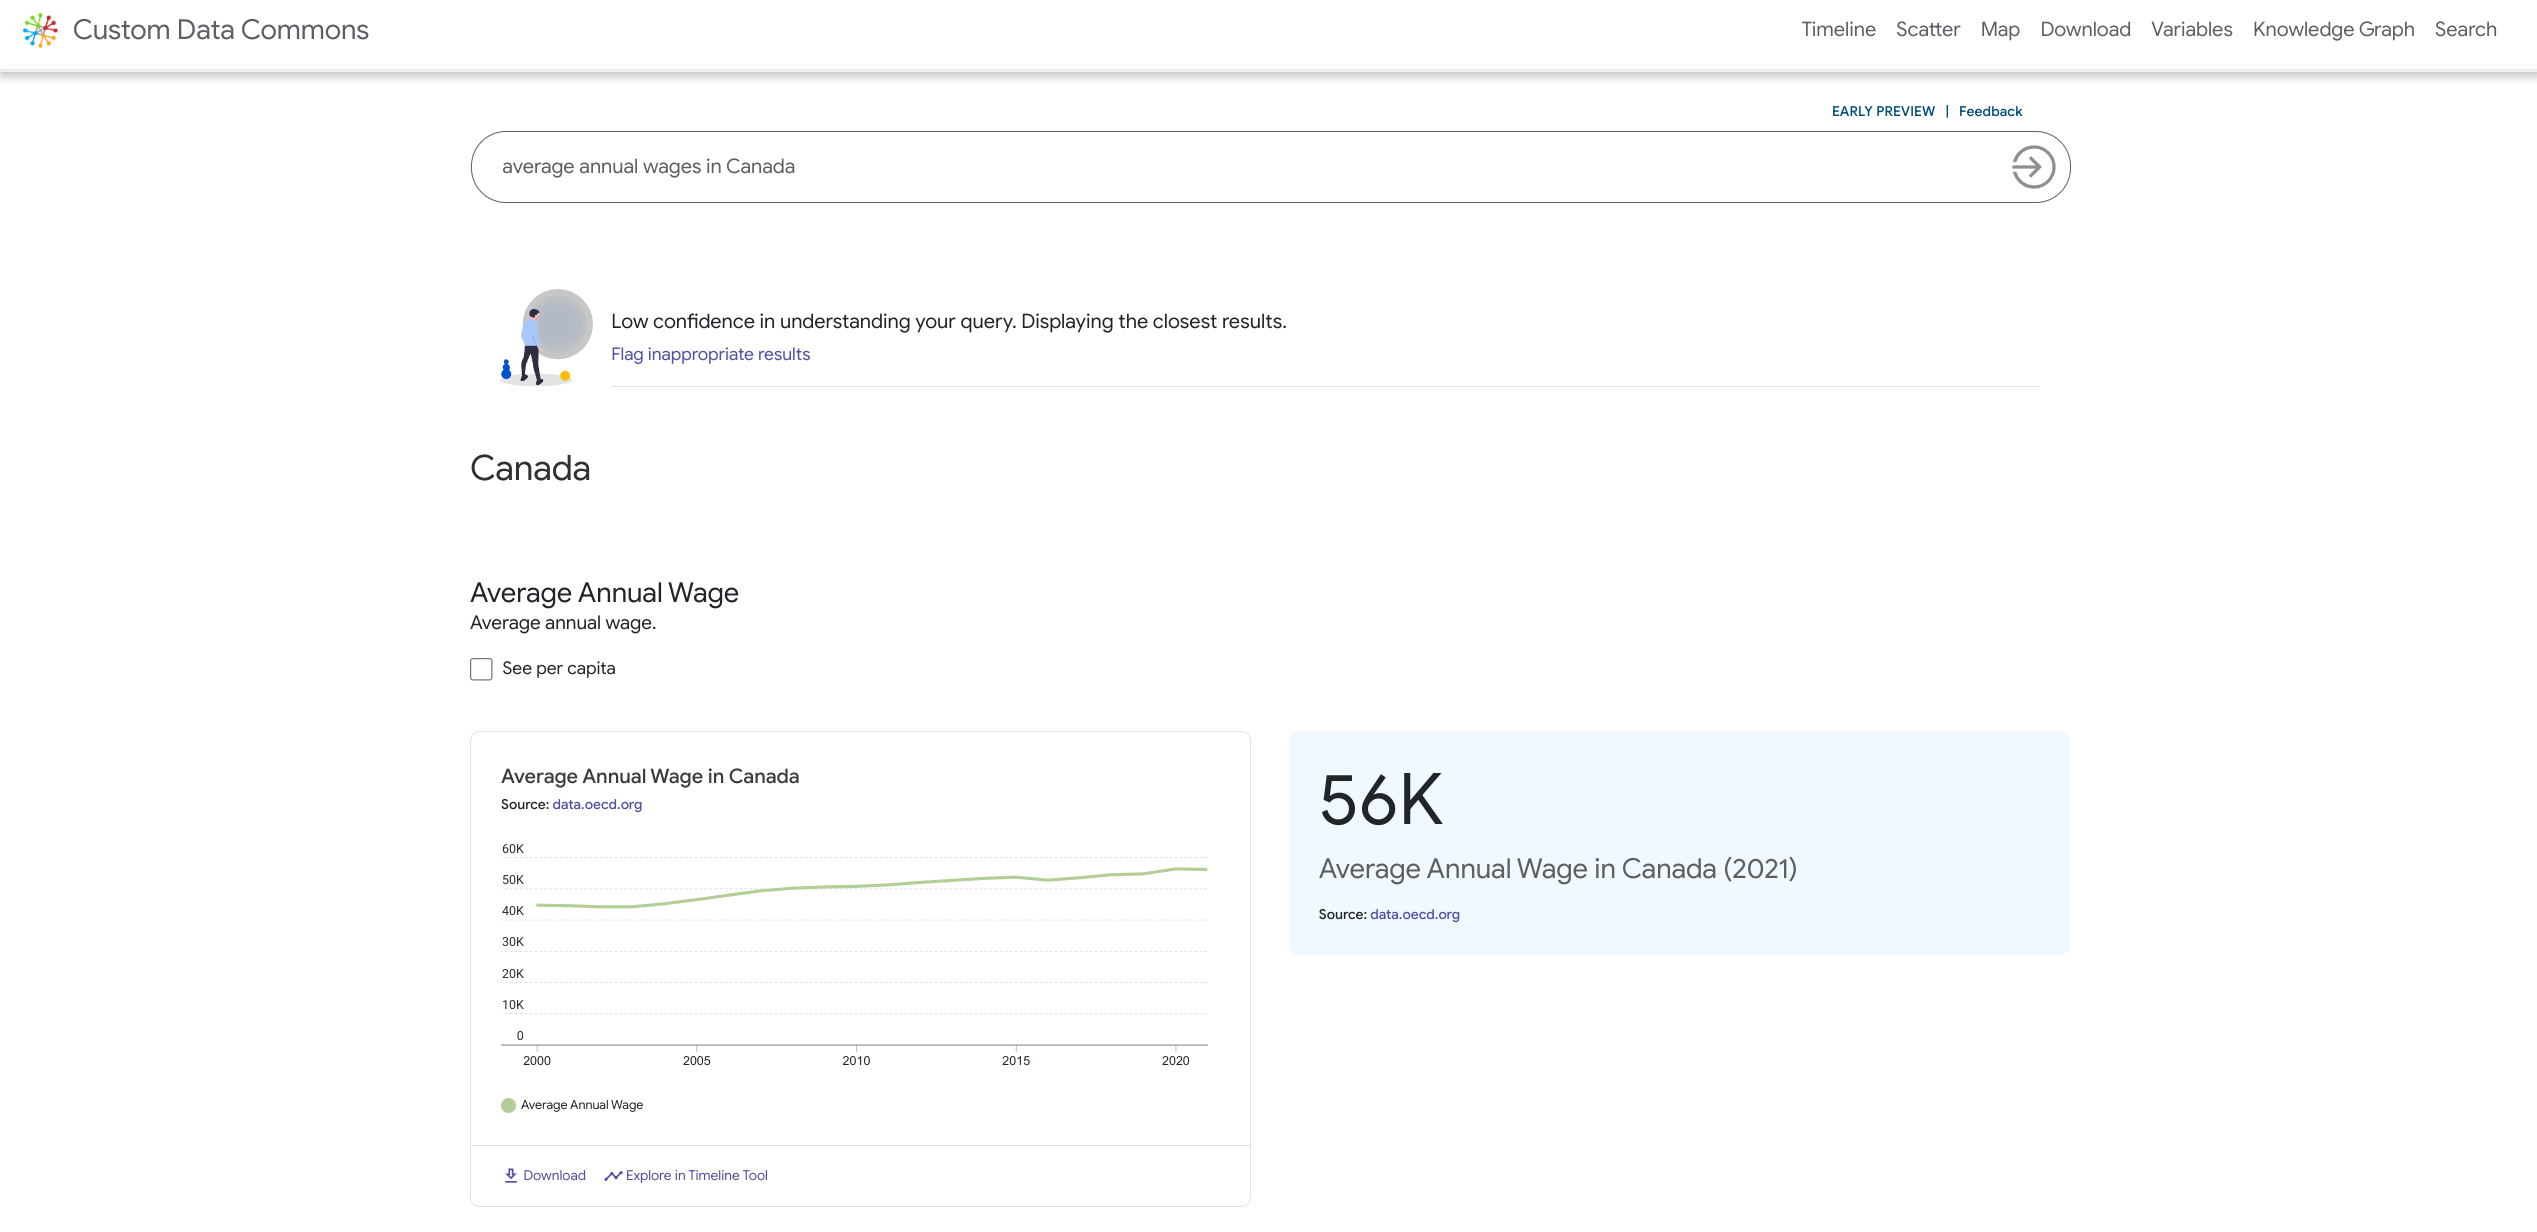
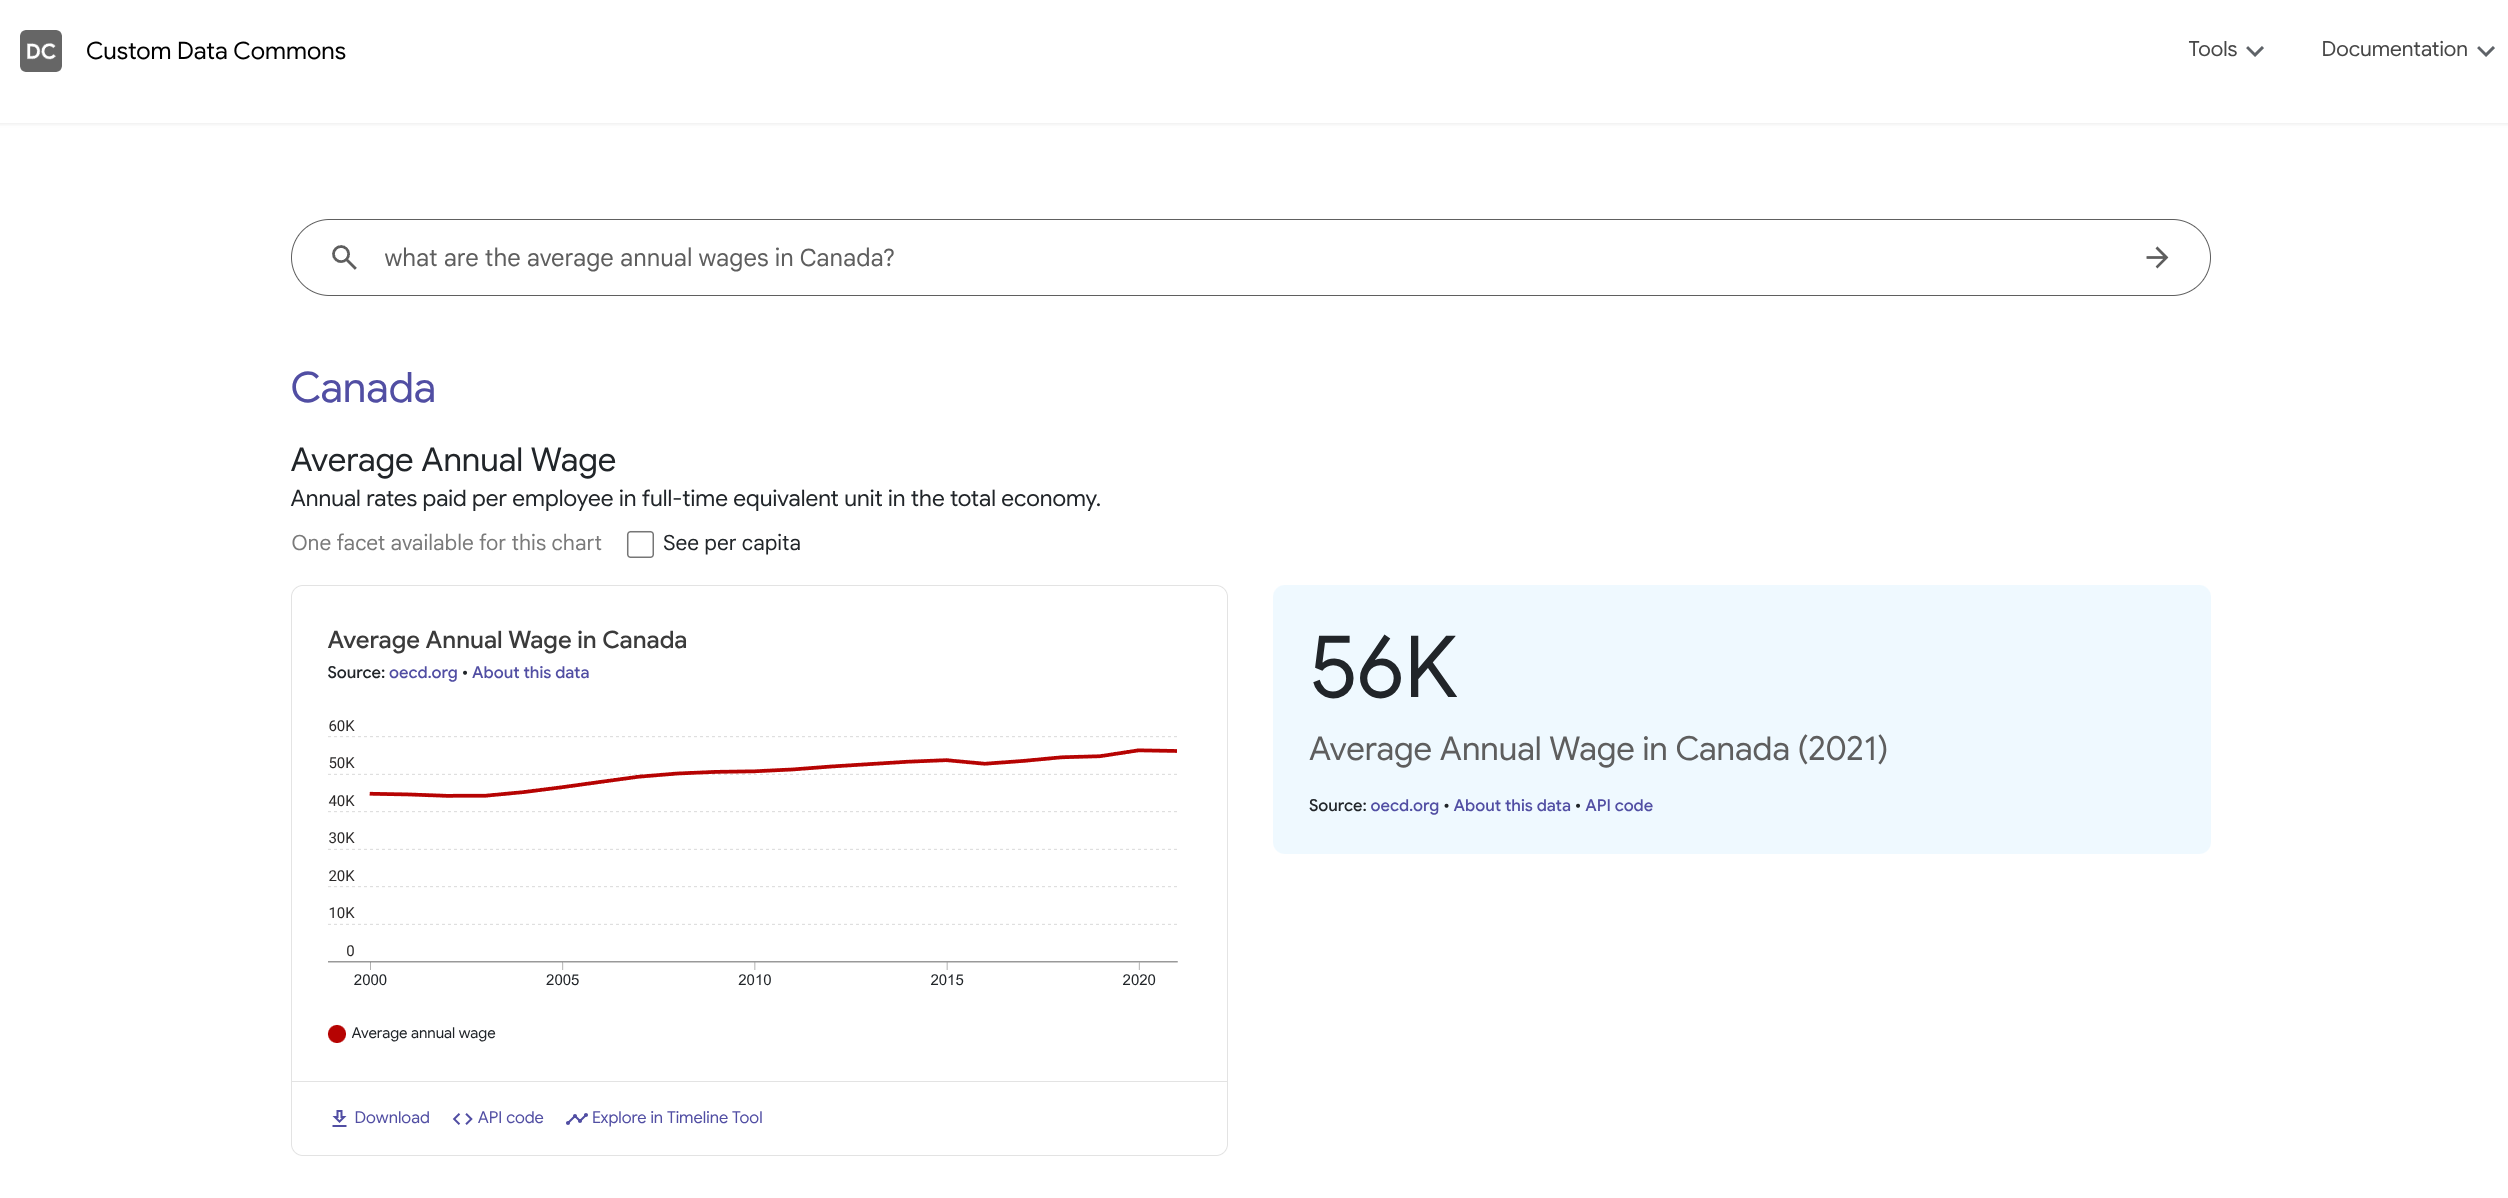
Update Custom DC quickstart for new viz tools (#686)
* more changes

* updates to json spec

* more edits

* multiple directories

* more changes

* more changes

* more edits

* remove headings from TOC

* minor edits

* more edits

* remove wrong image reference

* remove more headings from TOC

* revisions per Ajai and a new diagram

* remove image, replace by text

* mention that node and field order in MCF do not matter

* added mention of required option for subdirs

* added note about MCF

* move feedback from index page to FAQ

* added info on stat var groups

* wee fixes

* make feedback links nicer

* added detail about measuredProperty in variable per column

* fix typo

* revert output directory change

* fixed observation properties to refer to observations, not variables

* correct erroneous statement about data

* revert change

* Updating Data Sources pages

* Updating Data Sources pages

* added 2 more troubleshooting tips based on CE experience

* revert changes to local client

* make enable subdirs more prominent

* fixed incorrect Docker commands

* slight wording change

* fix formatting error in quickstart

* Fix incorrect field name

* Add more spaces to make more readable

* change groupstatvars to be available for both modes

* Start rewrite of custom DC docs with script

* more script work

* more work

* More work on script

* more work

* More script work

* fix path

* fix broken link to website FAQ

* Fix toc

* Add docker commands underlying bash script
[…]

diff --git a/custom_dc/quickstart.md b/custom_dc/quickstart.md
@@ -201,15 +201,15 @@ Once the services are up and running, visit your local instance by pointing your
 
 ![screenshot_homepage](/assets/images/custom_dc/customdc_screenshot1.png){: width="900"}
 
-Now click the **Timeline** link to visit the Timeline explorer. Click **Start**, enter an OECD country (e.g. Canada) and click **Continue**. Now, in the **Select variables** tools, you'll see the new variables:
+Now click the **Statistical Variable Explorer** chip to show the Statistical Variable Explorer. You should see the new **OECD** group of variables at the top of the left pane. Select one of them and you will see some linked sample countries that have data for these variables.
 
 ![screenshot_timeline](/assets/images/custom_dc/customdc_screenshot2.png){: width="900"}
 
-Select one (or both) and click **Display** to show the timeline graph:
+Now, select **Tools** > **Timeline Explorer** to open the Timeline Explorer. In the **Select places** field, enter an OECD country, for example, Canada, and select one or both variables from the left pane. The timeline chart automatically loads in the right pane.
 
 ![screenshot_display](/assets/images/custom_dc/customdc_screenshot3.png){: width="900"}
 
-To issue natural language queries, click the **Search** link. Try NL queries against the sample data you just loaded, e.g. "Average annual wages in Canada".
+Now try issuing some natural-language queries. Click the **Data Commons** link to go back to the home page. In the search bar, type in queries against the sample data. For example, enter "What are the average annual wages in Canada  Try NL queries against the sample data you just loaded, e.g. "Average annual wages in Canada".
 
 ![screenshot_search](/assets/images/custom_dc/customdc_screenshot3a.png){: width="900"}
 
